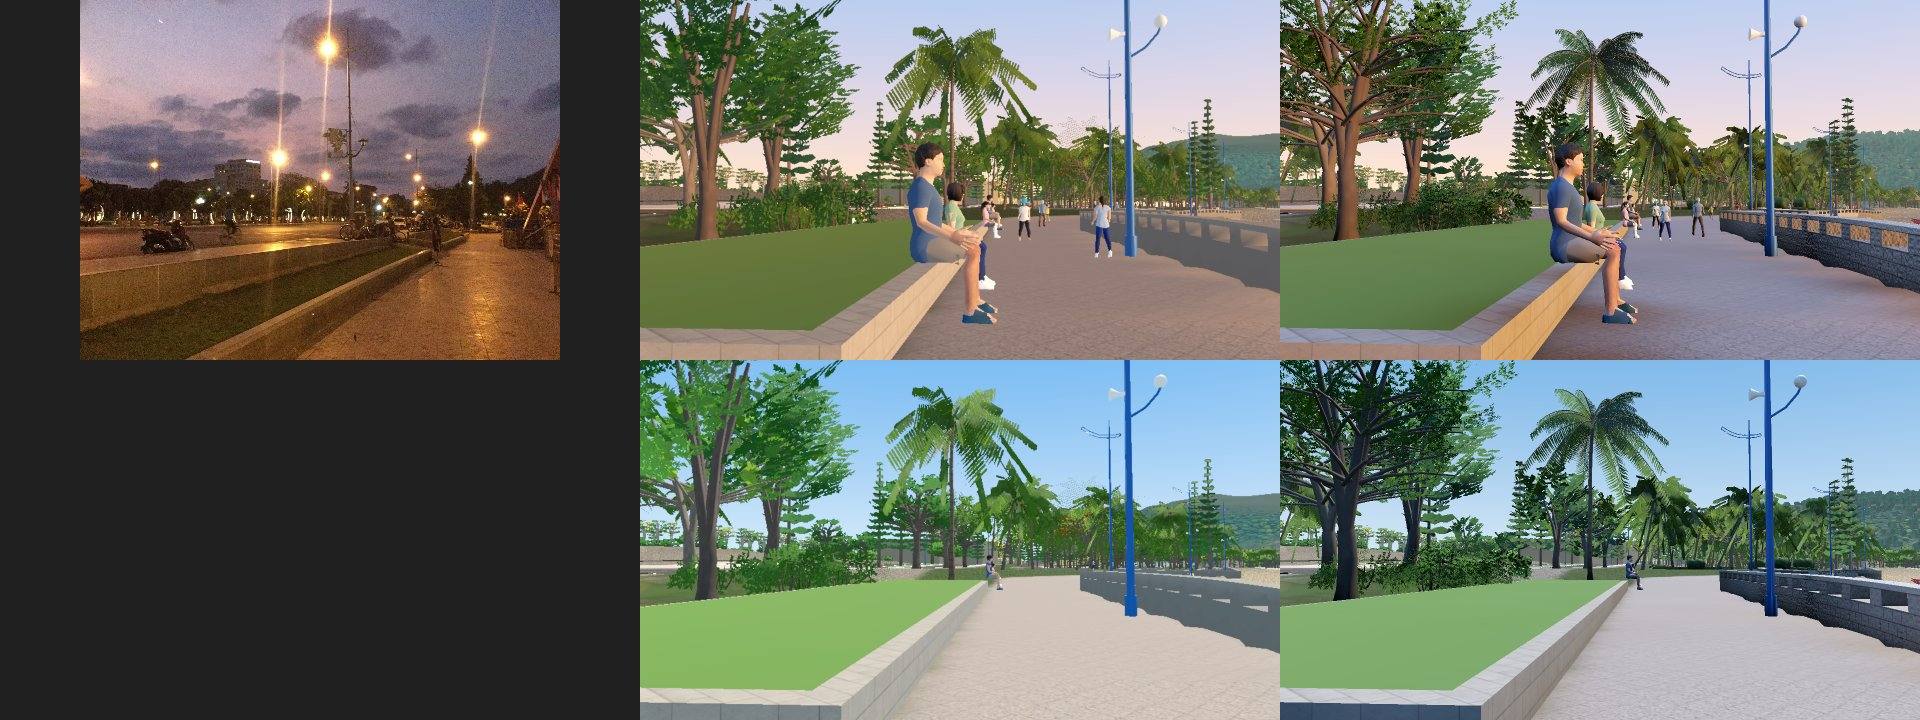
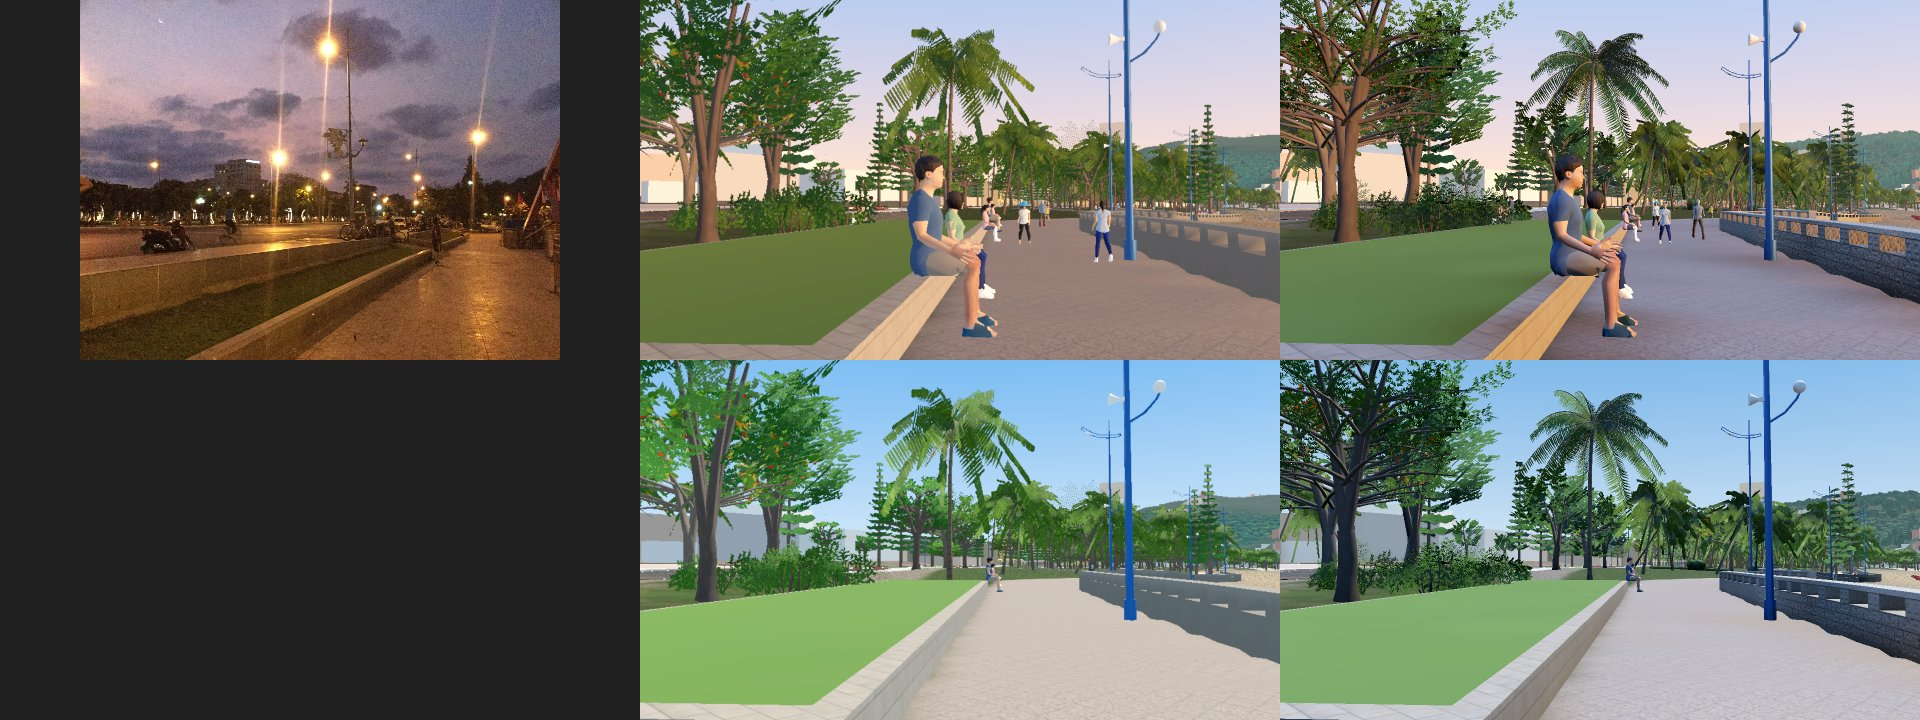
Make the views of the town and the five shots again with the colors of the town, and write the open checks

diff --git a/docs/plans/0009-houses-on-the-lots.md b/docs/plans/0009-houses-on-the-lots.md
@@ -2,7 +2,7 @@
 
 | Field | Value |
 |---|---|
-| Status | In progress: phases 1a, 1b, and 2 are done (2026-11-22); phase 3 waits for my look at the views of PT-68 (`docs/town/`). Approved (2026-11-16). Changed (2026-11-18): all the sources of the data (section 3, "The sources"; D9 to D11, R1, R5 to R5e, Q1, Q5 to Q7). Changed (2026-11-21): the whole town first, not the area of plan 0026 first (section 5). |
+| Status | In progress: phases 1a, 1b, and 2 are done (2026-11-21); phase 3 waits for my look at the views of PT-68 (`docs/town/`). Open: three values of D-0005-09 in PT-33 run 2, and the box `hill` of S1 in two of the eight runs of PT-72 (the builder notes of phases 1b and 2). Approved (2026-11-16). Changed (2026-11-18): all the sources of the data (section 3, "The sources"; D9 to D11, R1, R5 to R5e, Q1, Q5 to Q7). Changed (2026-11-21): the whole town first, not the area of plan 0026 first (section 5). |
 | Branch | `feat/0009-houses-on-the-lots` |
 | Depends on | 0004 (the house kit and the palette), 0005 (the roads and the ground), 0008 (the known places stay as they are), 0023 (the houses come from World, D8). |
 | Used by | 0010 (the bus ride), 0011 to 0015 (the shops and the streets), 0021 (Tết), 0022 (the garden). |
@@ -220,11 +220,11 @@ Each source of the data of this plan, also the ones that the plan does not use, 
   - **D-0009-12 (the identity of the commits).** The merge commit `8990b37` had another author and committer. The history of the branch is made again with the identity of CONTRIBUTING.md (the trees of the commits stay the same; `docs/plans/0009-commits-before-d12.txt` gives the new commit of each old commit after `8990b37`, for example `a6ffd2c` is now `1e812d0`), and the branch was pushed with force one time. Each commit and each merge now has that identity. The test: the job "Identity of the commits" of `.github/workflows/test.yml` (`tools/ci/check_identity.sh`) fails when a commit of the branch has another author or committer; on the old head it gives `8990b37`. The check `git log --format='%an %ae %cn %ce' origin/main..HEAD | sort -u` gives only `Sơn Trần-Nguyễn github@sntran.com Sơn Trần-Nguyễn github@sntran.com`.
   - **D-0009-11 (the photons of clouds).** The request of the roof photons keeps only the photons of a high signal confidence (`cnf` 4 since D-0009-02, so the 5 photons of the clouds of 2025-08-30 were of a high confidence too). Now the check of the heights also keeps only the photons at most 150 m over the ground photons (`ROOF_MAX_M`), gives the median absolute difference (the median of the differences with no sign) next to the median and the RMSE for each check, and gives the towers (a 2.5D height over 40 m, `TOWER_M`) in a row of their own. The tests: `tools/geo/tests/test_buildings_tool.py` ("the roof photons of clouds are out of the check", "an outline with only photons of clouds has no difference", "the towers have a row of their own", "the check rows give the median absolute difference", "the roof photons are of a high signal confidence"). With the store of the head: 6 photons are more than 150 m over the ground (out). The buildings to 40 m: 2 067, mean +1.56 m, median +1.19 m, median absolute difference 1.86 m, RMSE 4.12 m (it was 17.55 m for 2 086 buildings with the clouds and the towers). The towers: 18, median +50.79 m, median absolute difference 50.79 m, RMSE 51.53 m: the 2.5D height of a tower is more than the height of its photons, because the photons fall on the lower parts. The other checks (median absolute difference): 3D-GloBFP 4.10 m, GHS-BUILT-H 3.92 m, `building:levels` 3.45 m.
   - **Phase 1a is done.** Phase 1b (R5b, the new ground) waits for plan 0026 to go to `main`.
-- **Phase 1b (R5b, 2026-11-22).** Plan 0026 is on `main` (report 0026, section 12.5).
+- **Phase 1b (R5b, 2026-11-21).** Plan 0026 is on `main` (report 0026, section 12.5).
   - **The sources.** `tools/geo/fetch.py --only bare_earth` gets a window of GEDTM30 v1.2 (30 m, meters over EGM2008) and the tile N10E107 of DeltaDTM v1.1 (from `Asia.zip` with range requests; its cells over 30 m have the value of its clip and are no data). Both sources answer from the workspace now (D9 said they did not on 2026-11-18). The licenses are in `data/geo/raw/manifest.json`.
   - **One zero.** All the heights of the build are over the mean sea level: the heights over EGM2008 take away 1.16 m (DTU22, D-0009-07; `data/geo/ground.json`), also ATL24 in the table of R5c of `lidar_report.md`.
   - **Two faults of the ground of plan 0005, found by R5b.** Each has a test first in `tools/geo/tests/test_bare_earth.py`. (1) `dem.tif` was half a pixel (about 15 m) west and north of its place: `rasterio.merge()` put the pixels of the tiles on the edges of the box. `fetch.merge_on_grid()` keeps the grid of the tiles, and the DEM was fetched again. Against the lidar, the RMSE of Copernicus fell from 4.50 m to 3.78 m (on the trees of Núi Lớn from 11.05 m to 8.23 m). (2) The sea of Copernicus is 0, and the cubic sample mixed it into the land at the coastline: the walk on the sea wall of S1 fell from 4.6 m to 1.4 m over the sea. Now the sea pixels are no data, and a land cell there takes the nearest land value; R5b keeps Copernicus within 30 m of the coastline, because a cell of 30 m of GEDTM30 there also has the sea in it.
   - **The result** (`data/geo/build/ground_report.md`): GEDTM30 has the smallest RMSE in each group of the low land and on Núi Lớn (DeltaDTM on the town of Núi Lớn, Copernicus on its open land); Núi Nhỏ has 3 lidar points and keeps Copernicus. The bare earth changes 1 252 ha (GEDTM30 511 ha, a mean of −4.29 m). The places, from Copernicus over EGM2008 to the ground of the game now: the beach of Bãi Trước 4.47 m to 2.85 m, the hall with the orange roof 7.65 m to 6.06 m, Cao ốc Sen Biển 13.01 m to 11.51 m, the Grand Hotel 8.09 m to 5.60 m (each about 1.16 m of the zero, and the rest the bare earth).
   - **The fixed numbers that changed with the ground.** The boxes `hill` and `roof` of S1 in `data/showcase/shots.json` (the ridge of Núi Nhỏ and the hall stand lower in the frame: 0.04 and 0.015 lower). The eye of the view of Cao ốc Sen Biển in `data/world/places/bai_truoc.json` (38 m in front and 21 m to the side, not 42 m and 18 m: the roof of the hall covered more of the tower). The land end of the jetty of Cầu Đá (`KnownPlaces._jetty()`): where the ground reaches the deck, 1.5 m into the slope (the coast there is now a step of 2 m, the sea wall; the old rule put the end of the deck high on the step, and PT-74 run 8 found the player inside the deck). The checks of D4 in PT-60 that a place is hidden count the tree tops of the canopy map (the lighthouse from Bãi Trước: 0.4 on the bare earth, 0.0 with the trees); the check "the statue shows above the ridge" from Bãi Sau stays on the ground (0.7; 0.2 with the trees round the top).
-  - **PT-33.** Two values of D-0005-09 are under their limits on the new ground: from the top of Núi Lớn, 36 % of the town has a saturation over 0.2 (at least 40 %), and on the Hải Đăng road the mean value of the land is 0.38 (0.40 to 0.55). The town ground of Copernicus had the buildings in it as bumps, with light and shade; the bare earth is smooth, and the town shows only its made pattern of roofs. The boxes of phase 2 now stand on it.
-- **Phase 2 (R6, R10, 2026-11-22).** `data/geo/build/town/` has 45 324 boxes in 632 chunks (roofs: 18 016 terraces, 25 278 metal roofs, 2 030 hip roofs of tiles, by the shares of the palette; 9 105 of 209 503 walls are hidden by a neighbor). The unseen buildings (Check) are not in the store of 2019, so they stay out. On Low the boxes show to 1 500 m: with 2 000 m, S5 of PT-73 had 299 733 triangles, too near the limit of 300 000, and four meshes for each chunk saved few triangles for many draw calls. PT-69 (the limits of the draw calls are a proposal for you: Low 600, High 2 000, as PT-73): Low 175 to 266 draw calls and 139 853 to 161 310 triangles; High 280 to 468 draw calls and 436 469 to 1 256 915 triangles. PT-73 with the town on Low: S1 168, S2 317, S3 330, S4 235, S5 405 draw calls; S5 281 874 triangles. The views of PT-68 and their photos are in `docs/town/`. The phase stops here: you look at the views before phase 3.
+  - **PT-33 (open).** Three values of D-0005-09 in run 2 are out of their limits on the new ground, with the boxes of phase 2: from the top of Núi Lớn, 36 % of the town has a saturation over 0.2 (at least 40 %); from Núi Nhỏ to the north, the mean value of the land is 0.61 (0.40 to 0.55); on the Hải Đăng road it is 0.38 (0.40 to 0.55). The boxes do not cause them: the town of the view from Núi Lớn is farther than the range of the boxes on Low (1 500 m), and the view of the Hải Đăng road has no town in it. The town ground of Copernicus had the buildings in it as bumps, with light and shade; the bare earth is smooth, and the far town shows only its made pattern of roofs. I did not change the limits or the look: the look of the far town is in your review of the views of PT-68. The CI part that runs PT-33 fails on these three values.
+- **Phase 2 (R6, R10, 2026-11-21).** `data/geo/build/town/` has 45 324 boxes in 632 chunks (roofs: 18 016 terraces, 25 278 metal roofs, 2 030 hip roofs of tiles, by the shares of the palette; 9 105 of 209 503 walls are hidden by a neighbor). The unseen buildings (Check) are not in the store of 2019, so they stay out. On Low the boxes show to 1 500 m: with 2 000 m, S5 of PT-73 had 299 733 triangles, too near the limit of 300 000, and four meshes for each chunk saved few triangles for many draw calls. PT-69 (the limits of the draw calls are a proposal for you: Low 600, High 2 000, as PT-73): Low 175 to 266 draw calls and 139 853 to 161 310 triangles; High 280 to 468 draw calls and 436 469 to 1 256 915 triangles. PT-73 with the town on Low: S1 168, S2 317, S3 330, S4 235, S5 405 draw calls; S5 281 874 triangles. The views of PT-68 and their photos are in `docs/town/`. The material of the boxes reads the colors of the palette as sRGB (`vertex_color_is_srgb`, as the sea objects and the roadworks): before, it read them as linear colors, and each wall showed almost white. The five shots of plan 0026 with the town behind them are in `docs/showcase/` (PT-72, each run made one at a time with `--only-phase`, then the run of the sheets). **PT-72 S1 (open).** A villa of the town on the slope of Núi Nhỏ stands in the old box `hill` of S1, so the box is now the largest box of forest over the villa with no sky: 36 blocks, not the 60 of the box of the photo. Its values move near the limits with each small change of the box: 6 of 8 runs pass; at 12:00 on Low its saturation is 0.06 from the photo (at most 0.05), and at 12:00 on High its color patches are 0.022 (at least 0.025). I did not change the limits or the crowns of the hill: you said that the five shots have no check now, and the look of the hill is in the later pass of the look (report 0026, section 12.5). The phase stops here: you look at the views before phase 3.
